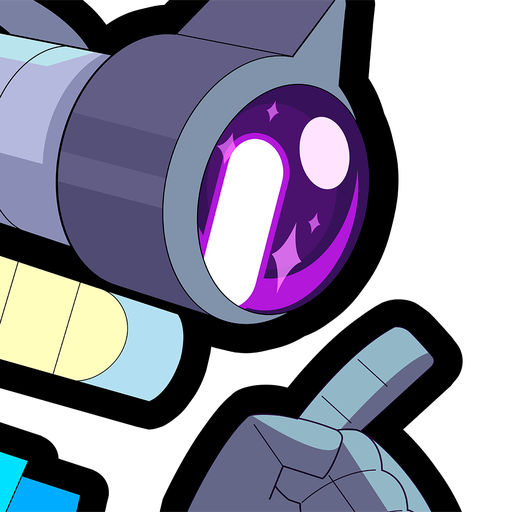
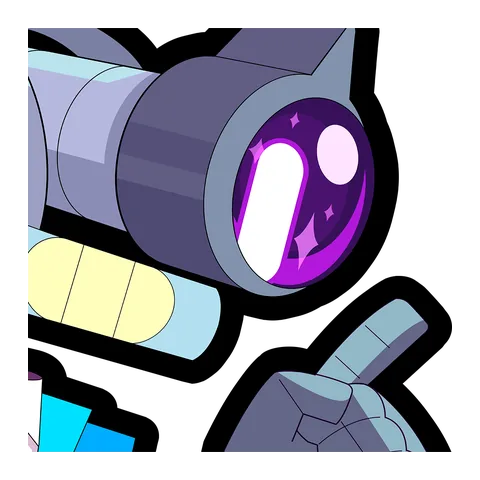
Fix Cosmo artwork and locked brawler progression

diff --git a/app/ui/assets/app.js b/app/ui/assets/app.js
@@ -1573,7 +1573,7 @@ function brawlerImage(brawler, thumbnail = false) {
   return thumbnail
     ? (brawler.id === 16000108
       ? '/assets/brawlers/thumbs/16000108.png?v=2'
-      : `/assets/brawlers/thumbs/${brawler.id}.webp`)
+      : `/assets/brawlers/thumbs/${brawler.id}.webp${brawler.id === 16000109 ? '?v=4' : ''}`)
     : `/assets/brawlers/${brawler.id}.png`;
 }
 
@@ -1969,23 +1969,34 @@ function cardFor(brawler) {
   top.append(name, rarityTag);
   nameBlock.append(top);
 
-  if (brawler.owned) {
-    const prestige = getPrestigeState(brawler);
-    const progRow = document.createElement('div'); progRow.className = 'brawler-progression-row';
+  const isOwned = Boolean(brawler.owned);
+  const displayedTrophies = isOwned ? format(brawler.trophies) : '0';
+  const displayedLevel = isOwned ? brawler.power : 0;
+  const prestigeBrawler = isOwned ? brawler : {
+    ...brawler,
+    trophies: 0,
+    highest_trophies: 0,
+    highestTrophies: 0,
+    prestige_level: 0,
+    prestige_asset_id: 0,
+    prestige_label: 'Wood',
+  };
+  const prestige = getPrestigeState(prestigeBrawler);
+  const progRow = document.createElement('div');
+  progRow.className = `brawler-progression-row${isOwned ? '' : ' locked'}`;
 
-    const trophyChip = document.createElement('div'); trophyChip.className = 'brawler-stat-chip trophies-chip'; trophyChip.title = `${brawler.name}: ${format(brawler.trophies)} Trophies`;
-    trophyChip.innerHTML = `<div class="trophy-chip-row"><img class="trophy-chip-img" src="/assets/icon_trophy.png" alt="Trophy" /><span class="trophy-chip-val">${format(brawler.trophies)}</span></div><span class="trophy-chip-lbl">TROPHIES</span>`;
+  const trophyChip = document.createElement('div'); trophyChip.className = 'brawler-stat-chip trophies-chip'; trophyChip.title = `${brawler.name}: ${displayedTrophies} Trophies${isOwned ? '' : ' (locked)'}`;
+  trophyChip.innerHTML = `<div class="trophy-chip-row"><img class="trophy-chip-img" src="/assets/icon_trophy.png" alt="Trophy" /><span class="trophy-chip-val">${displayedTrophies}</span></div><span class="trophy-chip-lbl">TROPHIES</span>`;
 
-    const prestigeWrap = document.createElement('div'); prestigeWrap.className = 'brawler-prestige-center-wrap'; prestigeWrap.title = `${brawler.name}: ${prestige.label}`;
-    const emblemImage = document.createElement('img'); emblemImage.className = 'prestige-card-emblem-img'; emblemImage.alt = `${brawler.name} ${prestige.label} emblem`; applyPrestigeImage(emblemImage, brawler);
-    prestigeWrap.append(emblemImage);
+  const prestigeWrap = document.createElement('div'); prestigeWrap.className = 'brawler-prestige-center-wrap'; prestigeWrap.title = `${brawler.name}: ${prestige.label}${isOwned ? '' : ' Prestige (locked)'}`;
+  const emblemImage = document.createElement('img'); emblemImage.className = 'prestige-card-emblem-img'; emblemImage.alt = `${brawler.name} ${prestige.label} emblem${isOwned ? '' : ' (locked)'}`; applyPrestigeImage(emblemImage, prestigeBrawler);
+  prestigeWrap.append(emblemImage);
 
-    const levelChip = document.createElement('div'); levelChip.className = 'brawler-stat-chip level-chip'; levelChip.title = `${brawler.name}: Level ${brawler.power}`;
-    levelChip.innerHTML = `<span class="level-chip-val">${brawler.power}</span><span class="level-chip-lbl">LEVEL</span>`;
+  const levelChip = document.createElement('div'); levelChip.className = 'brawler-stat-chip level-chip'; levelChip.title = `${brawler.name}: Level ${displayedLevel}${isOwned ? '' : ' (locked)'}`;
+  levelChip.innerHTML = `<span class="level-chip-val">${displayedLevel}</span><span class="level-chip-lbl">LEVEL</span>`;
 
-    progRow.append(trophyChip, prestigeWrap, levelChip);
-    nameBlock.append(progRow);
-  }
+  progRow.append(trophyChip, prestigeWrap, levelChip);
+  nameBlock.append(progRow);
 
   const equipment = document.createElement('div'); equipment.className = 'equipment-row equipment-lab-wrap'; renderRosterEquipmentLab(equipment, brawler);
   const open = document.createElement('div'); open.className = 'open-guide'; open.innerHTML = '<span>VIEW GUIDE</span><b>→</b>';
@@ -2797,7 +2808,9 @@ function createMatchupCard(item, category) {
   img.loading = 'lazy';
   img.alt = item.name;
   img.src = ([16000108, 16000109].includes(item.id))
-    ? '/assets/brawlers/thumbs/16000108.png?v=2'
+    ? (item.id === 16000108
+      ? '/assets/brawlers/thumbs/16000108.png?v=2'
+      : '/assets/brawlers/thumbs/16000109.webp?v=4')
     : `https://cdn.brawlify.com/brawlers/borders/${item.id}.png`;
   let fallbackStep = 0;
   img.onerror = () => {
@@ -3015,7 +3028,7 @@ function renderDetailArtwork(brawler) {
   image.decoding = 'async';
   image.src = brawler.id === 16000038 && !brawler.owned
     ? '/assets/surge-guide-art.png'
-    : [16000107, 16000108].includes(brawler.id)
+    : [16000107, 16000108, 16000109].includes(brawler.id)
       ? `/assets/brawlers/generated/${brawler.id}.png`
       : `/assets/brawlers/${brawler.id}.png`;
   image.onerror = () => {

diff --git a/app/ui/assets/styles.css b/app/ui/assets/styles.css
@@ -533,6 +533,25 @@ a { color: inherit; }
 .prestige-card-emblem-img { width: 38px; height: 38px; object-fit: contain; filter: drop-shadow(0 3px 5px rgba(0, 18, 55, 0.35)); transition: transform .18s ease; }
 .brawler-card:hover .prestige-card-emblem-img { transform: scale(1.14); }
 
+/* Locked catalog brawlers keep the progression layout, but at a disabled zero state. */
+.brawler-progression-row.locked .brawler-stat-chip {
+  background: linear-gradient(180deg, #f8fafc 0%, #eef2f6 100%) !important;
+  border-color: #cbd5e1 !important;
+  box-shadow: 0 2.5px 0 #cbd5e1 !important;
+}
+.brawler-progression-row.locked .trophy-chip-val,
+.brawler-progression-row.locked .trophy-chip-lbl,
+.brawler-progression-row.locked .level-chip-val,
+.brawler-progression-row.locked .level-chip-lbl { color: #94a3b8 !important; }
+.brawler-progression-row.locked .trophy-chip-img,
+.brawler-progression-row.locked .prestige-card-emblem-img {
+  filter: grayscale(1) opacity(.38);
+}
+.brawler-progression-row.locked .brawler-stat-chip:hover,
+.brawler-card:hover .brawler-progression-row.locked .prestige-card-emblem-img {
+  transform: none;
+}
+
 /* Level Chip Typography */
 .level-chip-val { font-family: var(--font-heading), system-ui, sans-serif; font-size: 14px; font-weight: 800; color: #1e40af; line-height: 1; }
 .level-chip-lbl { font-family: var(--font-heading), system-ui, sans-serif; font-size: 6px; font-weight: 800; letter-spacing: 0.6px; color: #2563eb; text-transform: uppercase; margin-top: 1px; line-height: 1; }

diff --git a/scripts/build_brawler_thumbnails.py b/scripts/build_brawler_thumbnails.py
@@ -1,5 +1,6 @@
 from __future__ import annotations
 
+import sys
 from pathlib import Path
 
 from PIL import Image
@@ -10,14 +11,38 @@ SOURCE_DIR = PROJECT_ROOT / "app" / "ui" / "assets" / "brawlers"
 OUTPUT_DIR = SOURCE_DIR / "thumbs"
 THUMBNAIL_SIZE = (480, 480)
 
+# Most source renders are already square. Cosmo's official render is wide, so
+# trim its left and right sides while preserving the complete portrait height.
+PORTRAIT_CROPS = {
+    "16000109": (542, 0, 1652, 1110),
+}
+PORTRAIT_INSETS = {
+    "16000109": 28,
+}
+
 
 def main() -> None:
     OUTPUT_DIR.mkdir(parents=True, exist_ok=True)
+    requested_ids = set(sys.argv[1:])
     generated = 0
     for source in sorted(SOURCE_DIR.glob("*.png")):
+        if requested_ids and source.stem not in requested_ids:
+            continue
         destination = OUTPUT_DIR / f"{source.stem}.webp"
         with Image.open(source) as image:
-            image.thumbnail(THUMBNAIL_SIZE, Image.Resampling.LANCZOS)
+            crop = PORTRAIT_CROPS.get(source.stem)
+            if crop:
+                image = image.crop(crop)
+            inset = PORTRAIT_INSETS.get(source.stem, 0)
+            render_size = tuple(dimension - (inset * 2) for dimension in THUMBNAIL_SIZE)
+            image.thumbnail(render_size, Image.Resampling.LANCZOS)
+            if inset:
+                portrait = Image.new("RGBA", THUMBNAIL_SIZE, (0, 0, 0, 0))
+                position = tuple((canvas - rendered) // 2 for canvas, rendered in zip(
+                    THUMBNAIL_SIZE, image.size, strict=True
+                ))
+                portrait.alpha_composite(image.convert("RGBA"), position)
+                image = portrait
             image.save(destination, "WEBP", quality=82, method=6)
         generated += 1
     print(f"Generated {generated} brawler thumbnails in {OUTPUT_DIR}")

diff --git a/tests/test_visual_assets.py b/tests/test_visual_assets.py
@@ -253,6 +253,31 @@ def test_every_catalog_and_detail_route_can_serve_its_local_images() -> None:
                 assert response.headers["content-type"] == "image/png"
 
 
+def test_cosmo_has_centered_portrait_and_separate_generated_hero_art() -> None:
+    hero_manifest = json.loads(
+        (UI_DIR / "assets" / "brawlers" / "hero-artwork.json").read_text(encoding="utf-8")
+    )
+    cosmo = hero_manifest["16000109"]
+
+    assert cosmo["official"] == "/assets/brawlers/16000109.png"
+    assert cosmo["generated"] == "/assets/brawlers/generated/16000109.png"
+    assert cosmo["initial"] == "generated"
+    hero_path = UI_DIR / "assets" / cosmo["generated"].removeprefix("/assets/")
+    assert _png_dimensions(hero_path) == (
+        1254,
+        1254,
+    )
+
+    with TestClient(app) as client:
+        portrait = client.get("/assets/brawlers/thumbs/16000109.webp")
+        hero = client.get(cosmo["generated"])
+
+    assert portrait.status_code == 200
+    assert portrait.headers["content-type"] == "image/webp"
+    assert hero.status_code == 200
+    assert hero.headers["content-type"] == "image/png"
+
+
 def test_september_cosmo_release_is_published_without_october_brawler() -> None:
     guides = _load("brawler_guides.json")
     equipment = _load("equipment_ids.json")

diff --git a/tests/test_app_routes.py b/tests/test_app_routes.py
@@ -33,6 +33,19 @@ def test_product_pages_and_surge_guide_are_available() -> None:
         assert len(guide["star_powers"]) == 2
 
 
+def test_locked_brawler_cards_keep_zeroed_grey_progression() -> None:
+    with TestClient(app) as client:
+        javascript = client.get("/assets/app.js").text
+        stylesheet = client.get("/assets/styles.css").text
+
+    assert "displayedTrophies = isOwned ? format(brawler.trophies) : '0'" in javascript
+    assert "displayedLevel = isOwned ? brawler.power : 0" in javascript
+    assert "prestige_asset_id: 0" in javascript
+    assert "brawler-progression-row${isOwned ? '' : ' locked'}" in javascript
+    assert ".brawler-progression-row.locked .brawler-stat-chip" in stylesheet
+    assert "filter: grayscale(1) opacity(.38)" in stylesheet
+
+
 def test_penny_and_tara_have_full_curated_guides() -> None:
     with TestClient(app) as client:
         penny = client.get("/api/guides/16000019").json()
